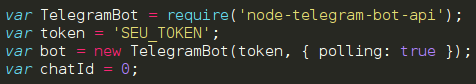
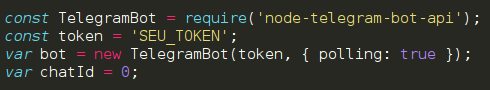
alterado tipo de variáveis e imagem do token

diff --git a/index.js b/index.js
@@ -1,7 +1,7 @@
 'use strict';
 
-var TelegramBot = require('node-telegram-bot-api');
-var token = 'SEU_TOKEN';
+const TelegramBot = require('node-telegram-bot-api');
+const token = 'SEU_TOKEN';
 var bot = new TelegramBot(token, { polling: true });
 var chatId = 0;
 
